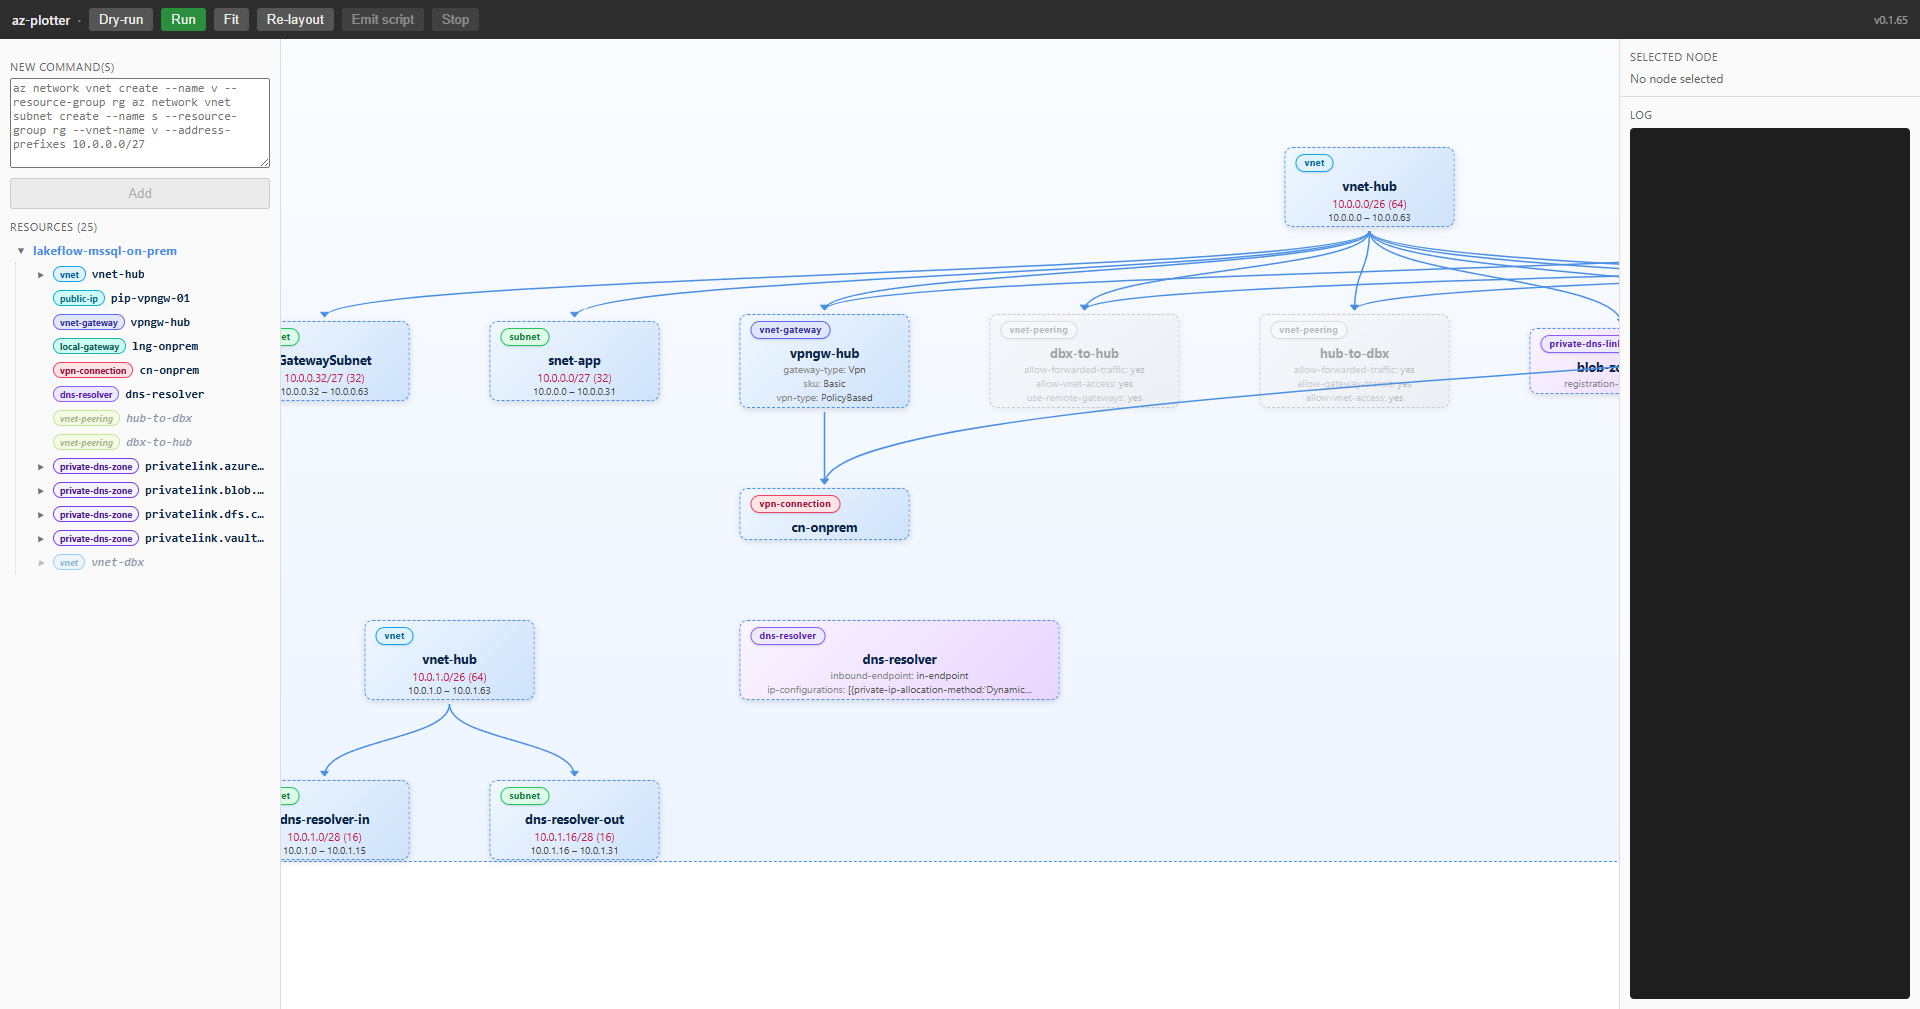
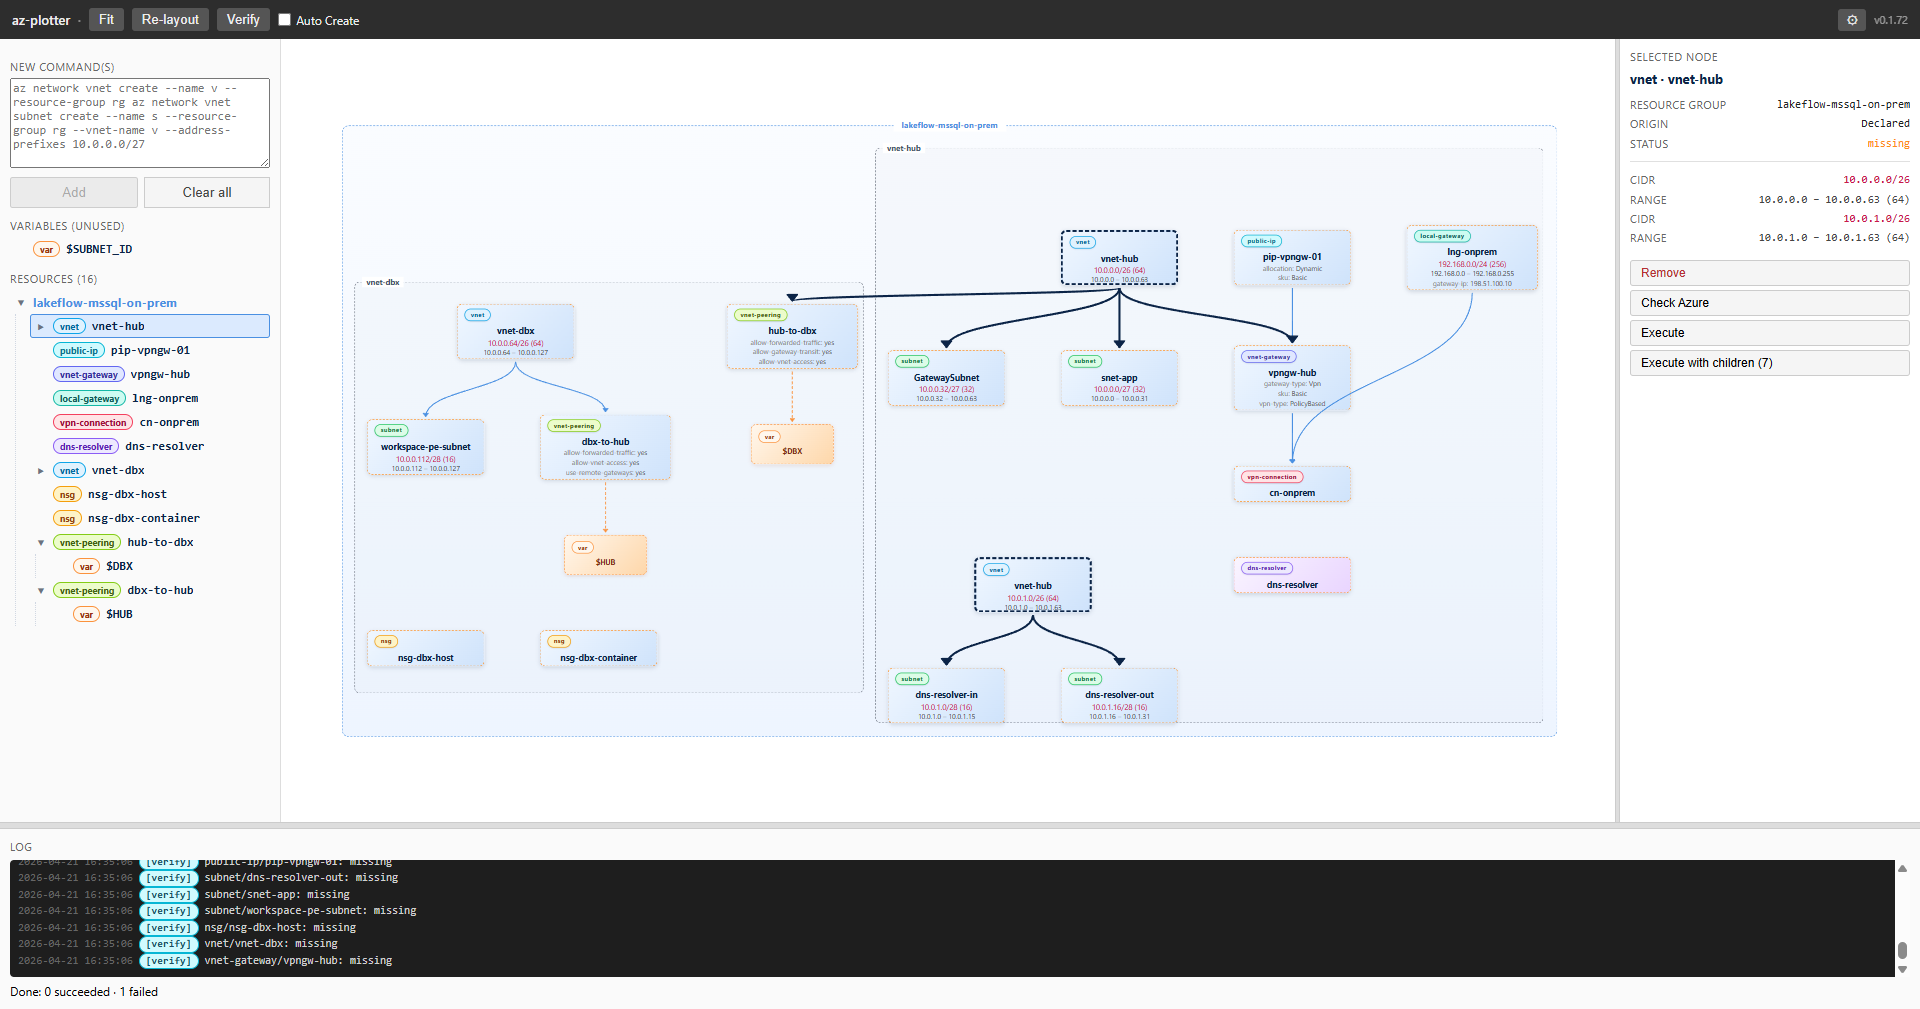
wip

diff --git a/ui/src/components/DetailPane.svelte b/ui/src/components/DetailPane.svelte
@@ -120,6 +120,101 @@
   let verifyDisabled = $derived(!selected || isRunning || isVerifying);
   let executeDisabled = $derived(!selected || isRunning);
 
+  // Descendants of the selected node in dependency order (edges point
+  // parent→child here: from=ref, to=produced). Includes the selected node
+  // first, then declared descendants via Kahn's topo sort restricted to the
+  // descendant set.
+  let cascadeOrder = $derived.by<typeof appState.nodes>(() => {
+    if (!selected) return [];
+    const keyOfNode = (n: typeof appState.nodes[number]) => keyOf(n.id);
+    const rootKey = keyOfNode(selected);
+    const byKey = new Map(appState.nodes.map(n => [keyOfNode(n), n]));
+    const outAdj = new Map<string, string[]>();
+    const inAdj = new Map<string, string[]>();
+    for (const e of appState.edges) {
+      const f = keyOf(e.from), t = keyOf(e.to);
+      (outAdj.get(f) ?? outAdj.set(f, []).get(f)!).push(t);
+      (inAdj.get(t) ?? inAdj.set(t, []).get(t)!).push(f);
+    }
+    const reach = new Set<string>([rootKey]);
+    const stack = [rootKey];
+    while (stack.length) {
+      const k = stack.pop()!;
+      for (const c of outAdj.get(k) ?? []) {
+        if (!reach.has(c)) { reach.add(c); stack.push(c); }
+      }
+    }
+    // Kahn's over `reach`: count only in-edges originating inside `reach`.
+    const indeg = new Map<string, number>();
+    for (const k of reach) {
+      let d = 0;
+      for (const p of inAdj.get(k) ?? []) if (reach.has(p)) d++;
+      indeg.set(k, d);
+    }
+    const queue: string[] = [];
+    for (const [k, d] of indeg) if (d === 0) queue.push(k);
+    const ordered: string[] = [];
+    while (queue.length) {
+      const k = queue.shift()!;
+      ordered.push(k);
+      for (const c of outAdj.get(k) ?? []) {
+        if (!reach.has(c)) continue;
+        indeg.set(c, (indeg.get(c) ?? 1) - 1);
+        if (indeg.get(c) === 0) queue.push(c);
+      }
+    }
+    // Fallback: if a cycle left nodes unordered, append them in reach order.
+    if (ordered.length < reach.size) {
+      for (const k of reach) if (!ordered.includes(k)) ordered.push(k);
+    }
+    return ordered
+      .map(k => byKey.get(k))
+      .filter((n): n is typeof appState.nodes[number] => !!n);
+  });
+
+  let cascadeExecutable = $derived(
+    cascadeOrder.filter(n => n.origin === "Declared" && n.command_id)
+  );
+  let childCount = $derived(Math.max(0, cascadeExecutable.length - 1));
+  let showCascade = $derived(!!selected && isDeclared && childCount > 0);
+
+  let cascading = $state(false);
+
+  async function executeWithChildren() {
+    if (!selected || cascading) return;
+    cascading = true;
+    execError = null;
+    const failures: string[] = [];
+    try {
+      for (const n of cascadeExecutable) {
+        const key = keyOf(n.id);
+        appState.appendLog(`[cascade] ${n.kind}/${n.name}`);
+        try {
+          await ipc.executeNode(key);
+        } catch (e) {
+          const msg = String(e);
+          if (msg === "not_logged_in") break;
+          failures.push(`${n.kind}/${n.name}: ${msg.split(/\r?\n/)[0]}`);
+          continue;
+        }
+        await refreshSnapshot();
+        const after = appState.nodes.find(x => keyOf(x.id) === key);
+        if (after?.status.kind === "failed") {
+          const tail = (after.status as { stderr_tail?: string }).stderr_tail ?? "";
+          const code = (after.status as { exit_code?: number }).exit_code ?? -1;
+          failures.push(
+            `${n.kind}/${n.name} (exit ${code})${tail.trim() ? `\n${tail}` : ""}`
+          );
+        }
+      }
+      if (failures.length > 0) {
+        execError = `${failures.length} node(s) failed:\n\n${failures.join("\n\n")}`;
+      }
+    } finally {
+      cascading = false;
+    }
+  }
+
   // Node-local execution error, shown under the buttons until the next run.
   let execError = $state<string | null>(null);
 
@@ -322,7 +417,17 @@
         <button class="btn" onclick={verify} disabled={verifyDisabled}>Check Azure</button>
       {/if}
       {#if showExecute}
-        <button class="btn" onclick={execute} disabled={executeDisabled}>Execute</button>
+        <button class="btn" onclick={execute} disabled={executeDisabled || cascading}>Execute</button>
+      {/if}
+      {#if showCascade}
+        <button
+          class="btn"
+          onclick={executeWithChildren}
+          disabled={executeDisabled || cascading}
+          title="Execute this node and all descendants in dependency order"
+        >
+          {cascading ? "Executing…" : `Execute with children (${childCount})`}
+        </button>
       {/if}
     </div>
     {#if execError}

diff --git a/ui/src/components/GraphCanvas.svelte b/ui/src/components/GraphCanvas.svelte
@@ -362,7 +362,22 @@
     sfEdges = rawEdges;
   }
 
-  // Rebuild + layout whenever the graph data changes.
+  // Structural signature: set of node ids + parent links + edge src/tgt.
+  // When it's unchanged, the snapshot only carries status/prop updates and
+  // we patch node data in place — no re-layout, no viewport jump.
+  function structuralSig(rawNodes: SFNode[], rawEdges: SFEdge[]): string {
+    const ns = rawNodes
+      .map(n => `${n.id}|${n.parentId ?? ""}|${n.type ?? ""}`)
+      .sort()
+      .join(",");
+    const es = rawEdges.map(e => `${e.source}>${e.target}`).sort().join(",");
+    return `${ns}||${es}`;
+  }
+  let lastSig = "";
+
+  // Rebuild + layout whenever the graph data changes structurally; otherwise
+  // patch the existing sfNodes in place so execution status changes (e.g.
+  // succeeded → green border + ✓) don't disturb the viewport.
   $effect(() => {
     const ns = appState.nodes;
     const es = appState.edges;
@@ -370,7 +385,27 @@
     const vc = appState.varConsumers;
     const gs = appState.groups;
     const gn = appState.groupNodes;
-    buildAndLayout(ns, es, vs, vc, gs, gn, null);
+    const { nodes: rawNodes, edges: rawEdges } = buildElements(ns, es, vs, vc, gs, gn, appState.selectedNodeKey);
+    const sig = structuralSig(rawNodes, rawEdges);
+
+    untrack(() => {
+      if (sig === lastSig && sfNodes.length > 0) {
+        const byId: Record<string, SFNode> = {};
+        for (const n of rawNodes) byId[n.id] = n;
+        sfNodes = sfNodes.map(existing => {
+          const fresh = byId[existing.id];
+          if (!fresh) return existing;
+          return {
+            ...existing,
+            data: fresh.data,
+          };
+        });
+        sfEdges = rawEdges;
+        return;
+      }
+      lastSig = sig;
+      buildAndLayout(ns, es, vs, vc, gs, gn, null);
+    });
   });
 
   // Apply selection-only updates without full ELK re-layout.

diff --git a/ui/src/components/ResourceNode.svelte b/ui/src/components/ResourceNode.svelte
@@ -43,6 +43,9 @@
   data-ctx={data.context}
   title={data.blocked ? "cannot execute — parent not declared" : undefined}
 >
+  {#if data.status === "succeeded" || data.status === "exists"}
+    <span class="azn-check" title="deployed">✓</span>
+  {/if}
   <span class="azn-pill" data-k={data.kind}>{data.kind}</span>
   <div class="azn-name">{data.name}</div>
   {#if data.cidr}
@@ -119,6 +122,23 @@
   .azn-pill[data-k="private-dns-zone"] { background:#f5f3ff; color:#4c1d95; border-color:#7c3aed; }
   .azn-pill[data-k="private-dns-link"] { background:#ede9fe; color:#5b21b6; border-color:#8b5cf6; }
 
+  .azn { position: relative; }
+  .azn-check {
+    position: absolute;
+    top: -8px;
+    right: -8px;
+    width: 20px;
+    height: 20px;
+    border-radius: 50%;
+    background: #2a8f3d;
+    color: #fff;
+    font-weight: 900;
+    font-size: 13px;
+    line-height: 20px;
+    text-align: center;
+    box-shadow: 0 1px 3px rgba(11, 36, 71, 0.3);
+    pointer-events: none;
+  }
   .azn-name { font-weight: 700; font-size: 13px; color: #0b2447; letter-spacing: -0.01em; text-align: center; word-break: break-all; }
   .azn-cidr { color: #c9184a; font-size: 11px; font-variant-numeric: tabular-nums; margin-top: 2px; }
   .azn-range { color: #444; font-size: 10px; font-variant-numeric: tabular-nums; }

diff --git a/ui/src/components/FlowActions.svelte b/ui/src/components/FlowActions.svelte
@@ -26,6 +26,17 @@
         const w = (n.measured?.width ?? n.width ?? 0);
         const h = (n.measured?.height ?? n.height ?? 0);
         const vp = getViewport();
+        const container = document.querySelector<HTMLElement>(".svelte-flow");
+        if (container) {
+          const cw = container.clientWidth;
+          const ch = container.clientHeight;
+          const sx = n.position.x * vp.zoom + vp.x;
+          const sy = n.position.y * vp.zoom + vp.y;
+          const sw = w * vp.zoom;
+          const sh = h * vp.zoom;
+          const fullyVisible = sx >= 0 && sy >= 0 && sx + sw <= cw && sy + sh <= ch;
+          if (fullyVisible) return;
+        }
         setCenter(n.position.x + w / 2, n.position.y + h / 2, { zoom: vp.zoom, duration: 300 });
       }, 0);
     });
